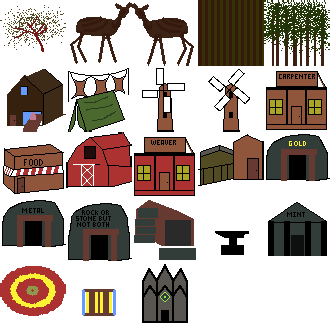
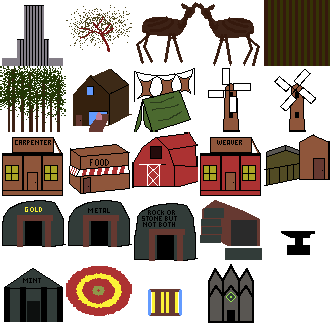
Mostly full art overhaul

diff --git a/Scenes/World1/Systems/RenderSystem.cs b/Scenes/World1/Systems/RenderSystem.cs
@@ -11,17 +11,33 @@ namespace IdolVillage.Scenes.World1.Systems
         internal int index = 1;
         internal override void Update(World world)
         {
-            var query1 = new QueryDescription().WithAll<Render, UnderLayer>();
+            var query1 = new QueryDescription().WithAll<UnderLayer>();
             world.Query(in query1, (entity) =>
             {
-                var render = entity.Get<Render>();
-                render.Draw();
+                if (entity.Has<Render>())
+                {
+                    var render = entity.Get<Render>();
+                    render.Draw();
+                }
+                else if (entity.Has<Sprite>())
+                {
+                    var render = entity.Get<Sprite>();
+                    render.Draw();
+                }
             });
-            var query2 = new QueryDescription().WithAll<Render, GroundLayer>();
+            var query2 = new QueryDescription().WithAll<GroundLayer>();
             world.Query(in query2, (entity) =>
             {
-                var render = entity.Get<Render>();
-                render.Draw();
+                if (entity.Has<Render>())
+                {
+                    var render = entity.Get<Render>();
+                    render.Draw();
+                }
+                else if (entity.Has<Sprite>())
+                {
+                    var render = entity.Get<Sprite>();
+                    render.Draw();
+                }
             });
             var query3 = new QueryDescription().WithAll<StructureLayer>();
             world.Query(in query3, (entity) =>
@@ -37,17 +53,33 @@ namespace IdolVillage.Scenes.World1.Systems
                     render.Draw();
                 }
             });
-            var query4 = new QueryDescription().WithAll<Render, UnitLayer>();
+            var query4 = new QueryDescription().WithAll<UnitLayer>();
             world.Query(in query4, (entity) =>
             {
-                var render = entity.Get<Render>();
-                render.Draw();
+                if (entity.Has<Render>())
+                {
+                    var render = entity.Get<Render>();
+                    render.Draw();
+                }
+                else if (entity.Has<Sprite>())
+                {
+                    var render = entity.Get<Sprite>();
+                    render.Draw();
+                }
             });
-            var query5 = new QueryDescription().WithAll<Render, SkyLayer>();
+            var query5 = new QueryDescription().WithAll<SkyLayer>();
             world.Query(in query5, (entity) =>
             {
-                var render = entity.Get<Render>();
-                render.Draw();
+                if (entity.Has<Render>())
+                {
+                    var render = entity.Get<Render>();
+                    render.Draw();
+                }
+                else if (entity.Has<Sprite>())
+                {
+                    var render = entity.Get<Sprite>();
+                    render.Draw();
+                }
             });
         }
     }

diff --git a/Scenes/World1/Systems/UnitMovementSystem.cs b/Scenes/World1/Systems/UnitMovementSystem.cs
@@ -12,10 +12,10 @@ namespace IdolVillage.Scenes.World1.Systems
     {
         internal override void Update(World world)
         {
-            var query = new QueryDescription().WithAll<Render, Unit>();
+            var query = new QueryDescription().WithAll<Sprite, Unit>();
             world.Query(in query, (entity) =>
             {
-                var render = entity.Get<Render>();
+                var render = entity.Get<Sprite>();
                 var unit = entity.Get<Unit>();
 
                 if (unit.CurrentAction == Unit.UnitActions.Move)
@@ -60,20 +60,19 @@ namespace IdolVillage.Scenes.World1.Systems
 
                             direction = Vector2.Normalize(direction);
                             render.Position += direction * 10 * Raylib.GetFrameTime();
-
                         }
                     }
                 }
                 else if (unit.CurrentAction == Unit.UnitActions.Idle)
                 {
-                    if (unit.AssignedTo != EntityReference.Null)
+                    if (unit.AssignedTo == default || unit.AssignedTo == EntityReference.Null)
                     {
-                        unit.CurrentAction = Unit.UnitActions.Move;
+                        var randomDirection = new Vector2(Random.Shared.NextSingle() * 2 - 1, Random.Shared.NextSingle() * 2 - 1);
+                        unit.MovementGoal = new Vector2(128 * 50) + randomDirection * 125;
                     }
                     else
                     {
-                        var randomDirection = new Vector2(Random.Shared.Next(-1, 1), Random.Shared.Next(-1, 1));
-                        unit.MovementGoal = render.Position + randomDirection * 15;
+                        unit.CurrentAction = Unit.UnitActions.Move;
                     }
                 }
             });

diff --git a/Scenes/World1/World1Scene.cs b/Scenes/World1/World1Scene.cs
@@ -20,8 +20,10 @@ namespace IdolVillage.Scenes.World1
                 {
                     for (int y = 0; y < 100; y++)
                     {
-                        var tile = new Render(TextureKey.MedievalSpriteSheet);
-                        tile.SetSource(SpriteSheetStore.Instance.GetTileSheetSource(options.GetRandom()));
+                        var tile = new Sprite(TextureKey.MapTiles, "Assets/Art/Tiles", 2);
+                        tile.SpriteWidth = 64;
+                        tile.SpriteHeight = 64;
+
                         tile.Color = Color.White;
                         tile.Position.X = x * 128;
                         tile.Position.Y = y * 128;
@@ -54,8 +56,10 @@ namespace IdolVillage.Scenes.World1
                     }
                 }
 
-                var center = new Render(TextureKey.MedievalSpriteSheet);
-                center.SetSource(SpriteSheetStore.Instance.GetStructureSheetSource(SpriteKey.CityCenter));
+                var center = new Sprite(TextureKey.ProductionStructures, "Assets/Art/ProductionStructures",2);
+                center.Play("villagecenter-idle");
+                center.SpriteWidth = 64;
+                center.SpriteHeight = 64;
                 center.Color = Color.White;
                 center.Position.X = 50 * 128;
                 center.Position.Y = 50 * 128;

diff --git a/Scenes/World1/Systems/RecruitmentSystem.cs b/Scenes/World1/Systems/RecruitmentSystem.cs
@@ -13,16 +13,18 @@ namespace IdolVillage.Scenes.World1.Systems
             var popCap = VillageData.Instance.TotalPrestige / 10;
             if (popCap > VillageData.Instance.TotalPopulation)
             {
-                var render = new Render(TextureKey.MedievalSpriteSheet);
-                render.SetSource(SpriteSheetStore.Instance.GetUnitSheetSource(SpriteKey.Woman));
+                var render = new Sprite(TextureKey.Units, "Assets/Art/Units");
+                render.SpriteWidth = 64;
+                render.SpriteHeight = 64;
+
                 render.Position = new Vector2(50 * 128, 50 * 128);
+                render.Play("villager2-idle");
                 var unit = new Unit
                 {
                     MovementGoal = new Vector2(50 * 128, 50 * 128)
                 };
                 world.Create(render, unit, new Interactable() {  Name = "Villager" }, new UnitLayer());
                 VillageData.Instance.TotalPopulation++;
-                Console.WriteLine("Unit Spawned");
             }
 
         }

diff --git a/Utilities/TextureManager.cs b/Utilities/TextureManager.cs
@@ -30,6 +30,8 @@ namespace IdolVillage.Utilities
 
             TextureStore.Add(TextureKey.MedievalSpriteSheet, Raylib.LoadTexture("Assets/Kenney/RTS-Medieval/Spritesheet/medievalRTS_spritesheet@2.png"));
             TextureStore.Add(TextureKey.ProductionStructures, Raylib.LoadTexture("Assets/Art/ProductionStructures.png"));
+            TextureStore.Add(TextureKey.MapTiles, Raylib.LoadTexture("Assets/Art/Tiles.png"));
+            TextureStore.Add(TextureKey.Units, Raylib.LoadTexture("Assets/Art/Units.png"));
 
             TextureStore.Add(TextureKey.MainLogo, Raylib.LoadTexture("Assets/Logo.png"));
             TextureStore.Add(TextureKey.RaylibLogo, Raylib.LoadTexture("Assets/raylib_logo_animation.png"));
@@ -80,5 +82,7 @@ namespace IdolVillage.Utilities
         MainLogo,
         RaylibLogo,
         ProductionStructures,
+        MapTiles,
+        Units,
     }
 }

diff --git a/Scenes/World1/Systems/InteractionSystem.cs b/Scenes/World1/Systems/InteractionSystem.cs
@@ -30,7 +30,7 @@ namespace IdolVillage.Scenes.World1.Systems
 
                 if (Raylib.CheckCollisionPointRec(mousePos, render.CollisionDestination))
                 {
-                    //Raylib.DrawRectangleLines((int)render.CollisionDestination.X, (int)render.CollisionDestination.Y, (int)render.CollisionDestination.Width, (int)render.CollisionDestination.Height, Color.Gold);
+                    Raylib.DrawRectangleLines((int)render.CollisionDestination.X, (int)render.CollisionDestination.Y, (int)render.CollisionDestination.Width, (int)render.CollisionDestination.Height, Color.Gold);
                     render.Color = Color.Gray;
                     if (InteractionHelper.GetMouseClick(MouseButton.Left))
                     {

diff --git a/Scenes/World1/Data/UnitStore.cs b/Scenes/World1/Data/UnitStore.cs
@@ -50,8 +50,11 @@ namespace IdolVillage.Scenes.World1.Data
 
         private static void CreateVillager(World world)
         {
-            var render = new Render(TextureKey.MedievalSpriteSheet);
-            render.SetSource(SpriteSheetStore.Instance.GetUnitSheetSource(Random.Shared.Next(0, 1) == 0 ? SpriteKey.Woman : SpriteKey.Man));
+            var render = new Sprite(TextureKey.Units,"Assets/Art/Units");
+            render.Play("villager2-idle");
+            render.SpriteWidth = 64;
+            render.SpriteHeight = 64;
+
             render.OriginPos = Render.OriginAlignment.LeftTop;
             render.Position = new Vector2(50 * 128, 50 * 128);
             var unit = new Unit

diff --git a/Scenes/World1/Systems/ProductionSystem.cs b/Scenes/World1/Systems/ProductionSystem.cs
@@ -12,7 +12,7 @@ namespace IdolVillage.Scenes.World1.Systems
         internal override void Update(World world)
         {
             var query = new QueryDescription().WithAll<ProductionUnit>();
-            var unitQuery = new QueryDescription().WithAll<Render, Unit>();
+            var unitQuery = new QueryDescription().WithAll<Sprite, Unit>();
 
             world.Query(in query, (entity) =>
             {
